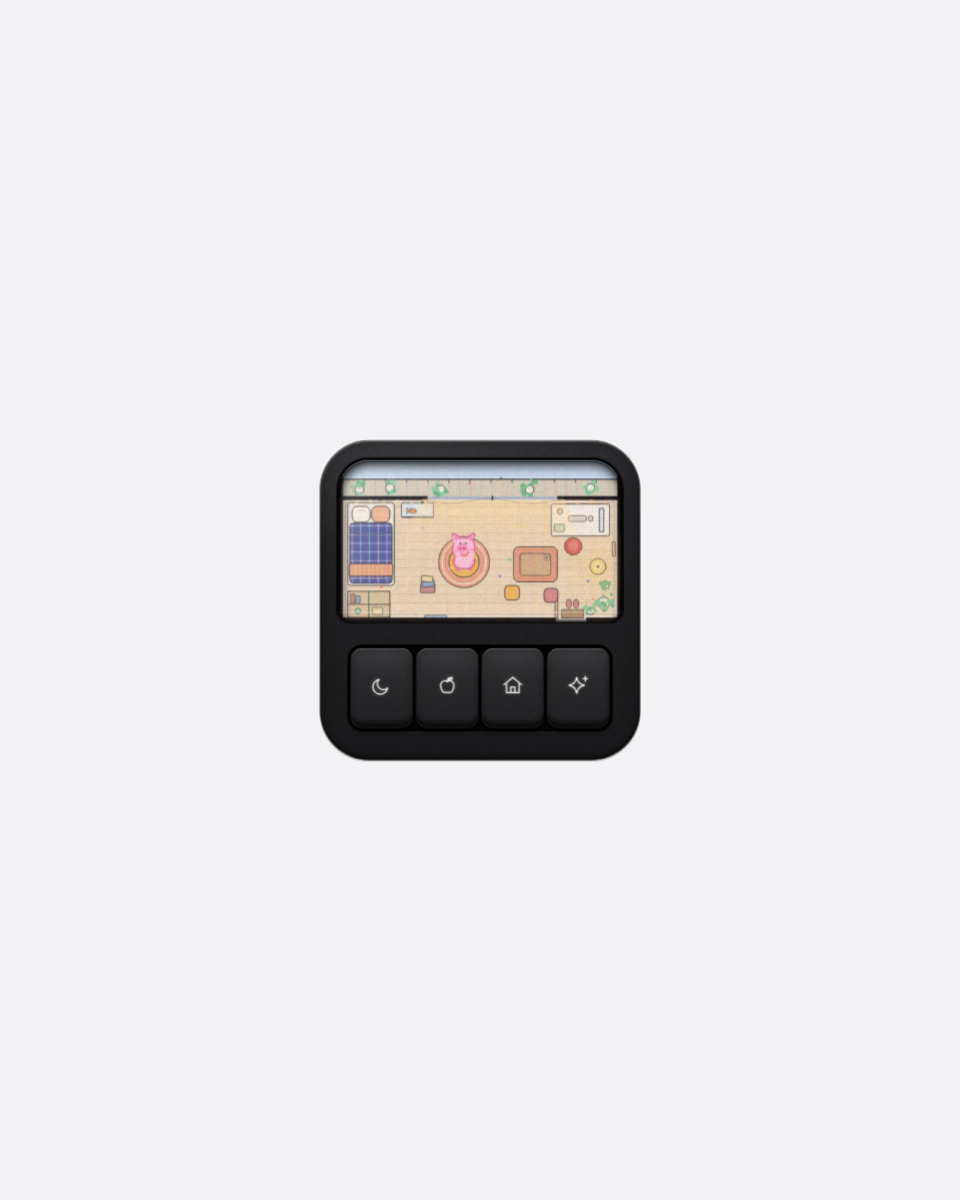
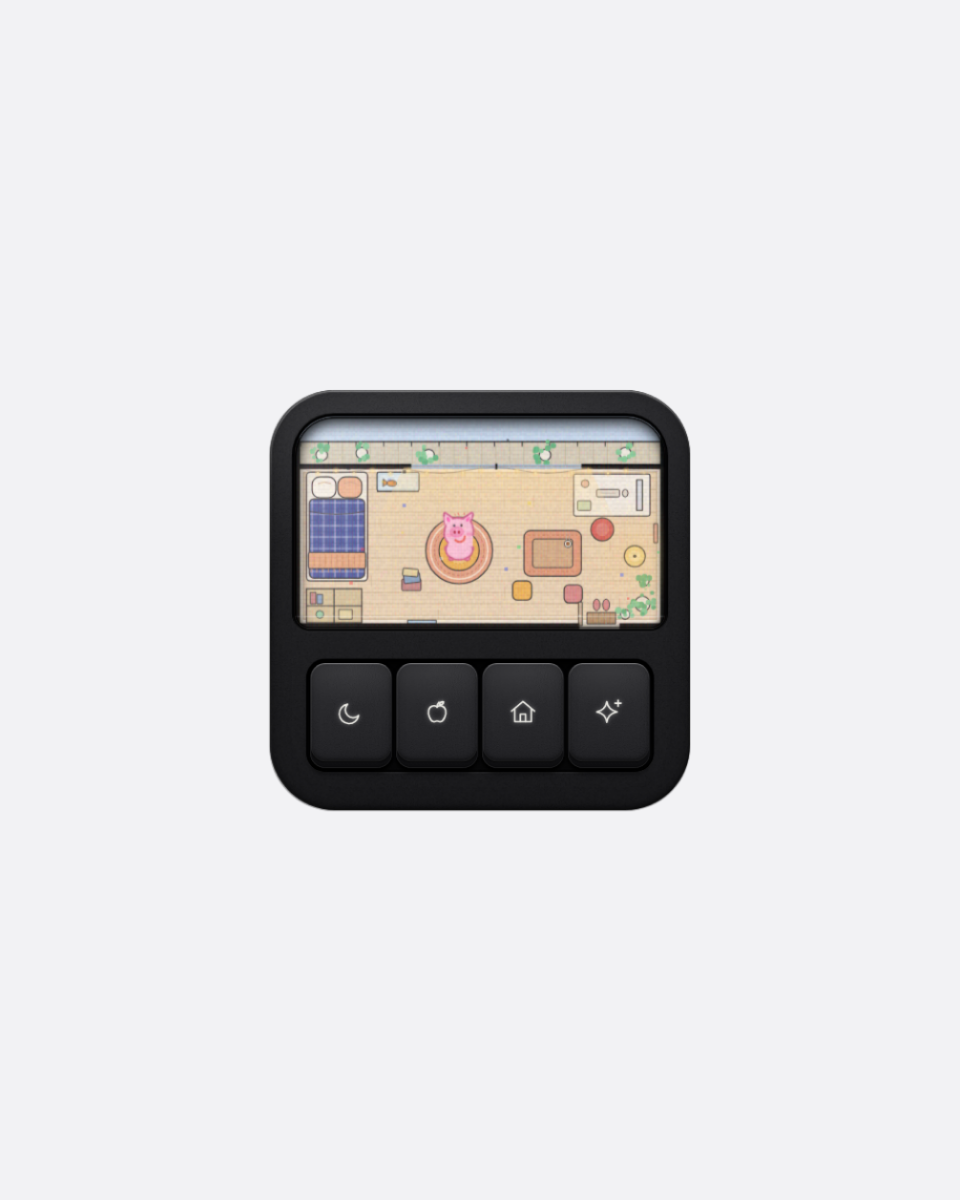
Pocket Piggy: show the device up to 420px on the gallery card and detail page

Changed region(s): [[0.2812, 0.3083, 0.7188, 0.6783]]

diff --git a/components/play/pocket-piggy/pocket-piggy.tsx b/components/play/pocket-piggy/pocket-piggy.tsx
@@ -14,14 +14,16 @@ export type PocketPiggyProps = {
   /** Accepted for the gallery card. The piggy simply idles on its own;
    *  there are no scripted presses. */
   loop?: boolean;
+  /** The largest the device is shown, in px. It still shrinks to fit. */
+  maxSize?: number;
   className?: string;
 };
 
 /** The device's true size. It is scaled down to fit whatever it is put in. */
 const DECK = 440;
 
-/** The largest it is ever shown, however much room it has. */
-const MAX_SIZE = 320;
+/** The largest it is shown by default, however much room it has. */
+const MAX_SIZE = 420;
 
 /** The CRT effects layer's own resolution. Drawn small and scaled up. */
 const W = 320;
@@ -551,7 +553,7 @@ function Room({ uid }: { uid: string }) {
  * home sends it back to its cushion, and play opens a picker so you can choose
  * what it does next.
  */
-export function PocketPiggy({ className }: PocketPiggyProps) {
+export function PocketPiggy({ maxSize = MAX_SIZE, className }: PocketPiggyProps) {
   const hostRef = React.useRef<HTMLDivElement>(null);
   const fitRef = React.useRef<HTMLDivElement>(null);
   const canvasRef = React.useRef<HTMLCanvasElement>(null);
@@ -569,14 +571,14 @@ export function PocketPiggy({ className }: PocketPiggyProps) {
     const fit = fitRef.current;
     if (!host || !fit) return;
     const apply = () => {
-      const scale = Math.min(MAX_SIZE / DECK, (host.clientWidth - 24) / DECK, (host.clientHeight - 24) / DECK);
+      const scale = Math.min(maxSize / DECK, (host.clientWidth - 24) / DECK, (host.clientHeight - 24) / DECK);
       fit.style.transform = `scale(${Math.max(0.3, scale).toFixed(4)})`;
     };
     apply();
     const ro = new ResizeObserver(apply);
     ro.observe(host);
     return () => ro.disconnect();
-  }, []);
+  }, [maxSize]);
 
   // The screen: the doodle is driven from one rAF loop, only while it can be
   // seen; a 2D canvas on top carries the CRT's dust, tracking line and static.

diff --git a/components/play/pocket-piggy/README.md b/components/play/pocket-piggy/README.md
@@ -44,6 +44,7 @@ The wrapper provides a bounded preview area. Resize it or pass `className` to fi
 | Prop | Type | Default | Notes |
 | --- | --- | --- | --- |
 | `loop` | `boolean` | — | Accepted for the gallery card. The piggy simply idles on its own; there are no scripted presses. |
+| `maxSize` | `number` | `MAX_SIZE` | The largest the device is shown, in px. It still shrinks to fit. |
 | `className` | `string` | — | Additional classes for the root container. |
 
 Named export: `PocketPiggy`. Public types: `PocketPiggyProps`.
